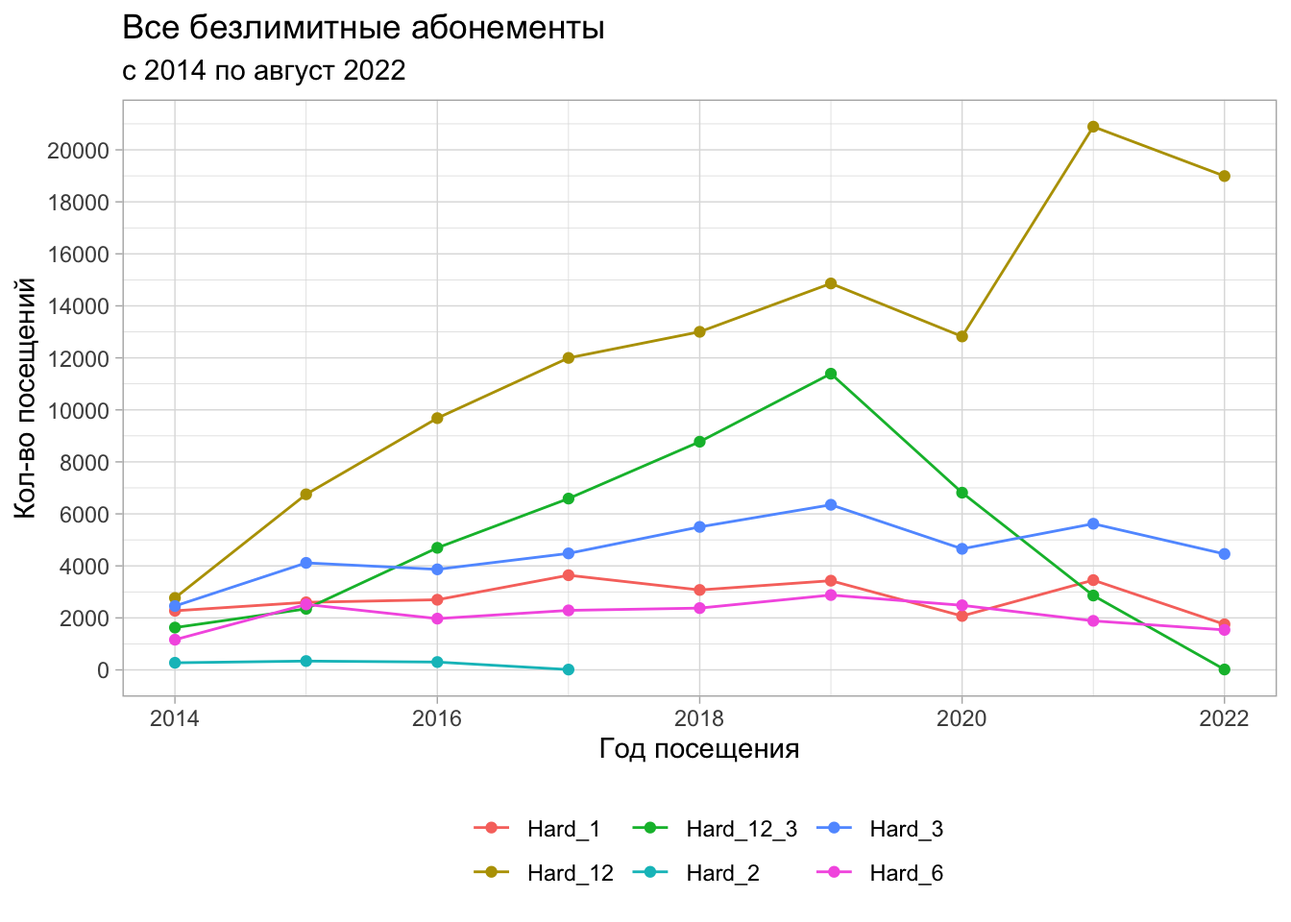
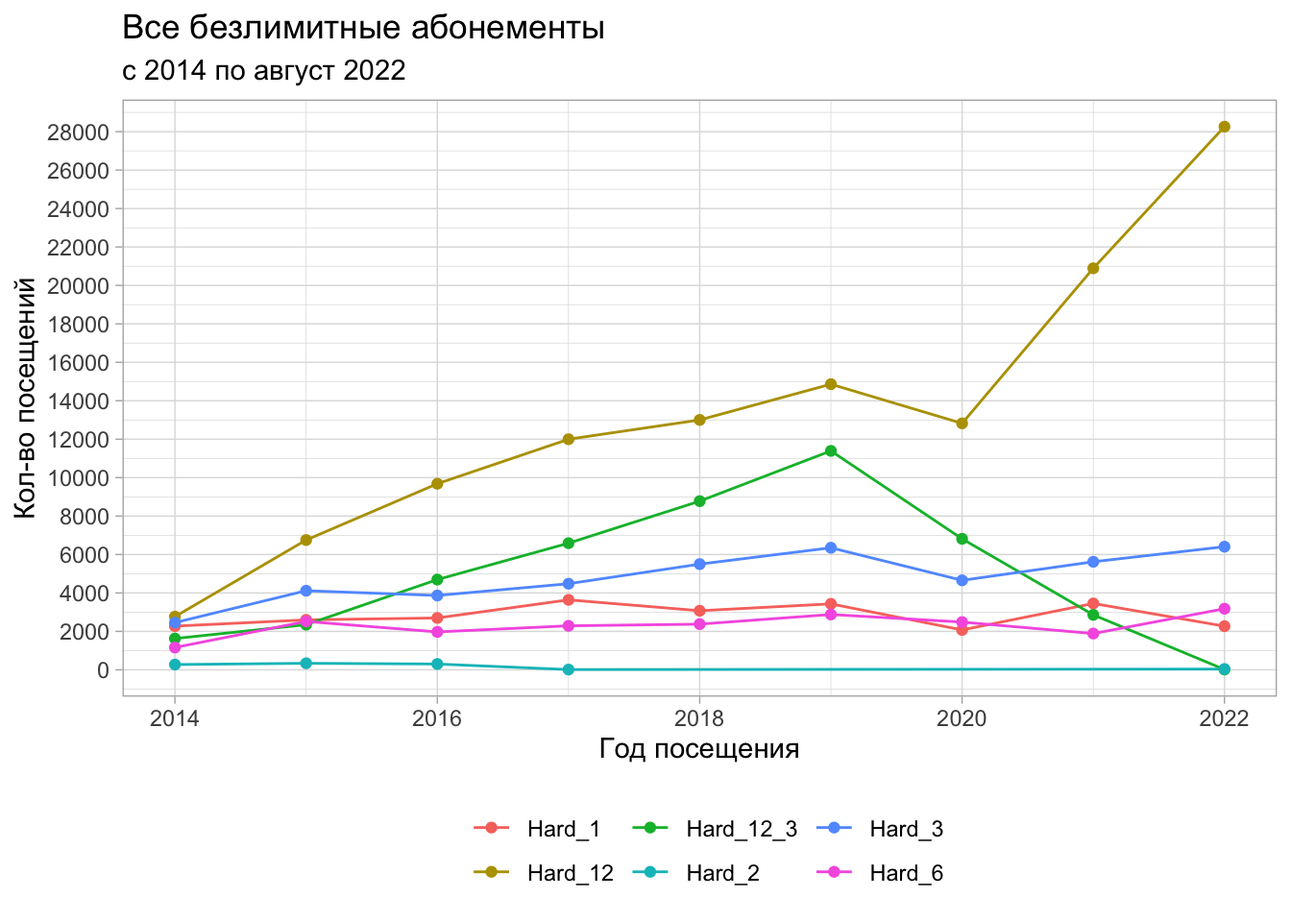
12/01/2023

diff --git a/docs/intro.html b/docs/intro.html
@@ -150,7 +150,7 @@ ul.task-list li input[type="checkbox"] {
 
 <div data-pagedtable="false">
   <script data-pagedtable-source="" type="application/json">
-{"columns":[{"label":["id"],"name":[1],"type":["chr"],"align":["left"]},{"label":["сard_type"],"name":[2],"type":["chr"],"align":["left"]},{"label":["surname"],"name":[3],"type":["chr"],"align":["left"]},{"label":["first_name"],"name":[4],"type":["chr"],"align":["left"]},{"label":["last_name"],"name":[5],"type":["chr"],"align":["left"]},{"label":["start_of_visit"],"name":[6],"type":["dttm"],"align":["right"]},{"label":["end_of_visit"],"name":[7],"type":["dttm"],"align":["right"]},{"label":["id_key"],"name":[8],"type":["chr"],"align":["left"]},{"label":["duration_visit"],"name":[9],"type":["dbl"],"align":["right"]},{"label":["date_start"],"name":[10],"type":["date"],"align":["right"]},{"label":["round_date_start"],"name":[11],"type":["date"],"align":["right"]},{"label":["year_start"],"name":[12],"type":["dbl"],"align":["right"]},{"label":["month_start"],"name":[13],"type":["dbl"],"align":["right"]},{"label":["day_number_start"],"name":[14],"type":["dbl"],"align":["right"]},{"label":["wday_start"],"name":[15],"type":["dbl"],"align":["right"]},{"label":["date_end"],"name":[16],"type":["date"],"align":["right"]},{"label":["round_date_end"],"name":[17],"type":["date"],"align":["right"]},{"label":["year_end"],"name":[18],"type":["dbl"],"align":["right"]},{"label":["month_endt"],"name":[19],"type":["dbl"],"align":["right"]},{"label":["day_number_end"],"name":[20],"type":["dbl"],"align":["right"]},{"label":["wday_end"],"name":[21],"type":["dbl"],"align":["right"]},{"label":["сard_type_2"],"name":[22],"type":["chr"],"align":["left"]},{"label":["segment"],"name":[23],"type":["chr"],"align":["left"]}],"data":[{"1":"NA","2":"Not","3":"Сауна №1","4":"Голубая","5":"NA","6":"2015-11-28 16:28:48","7":"2015-11-28 18:50:49","8":"NA","9":"142","10":"2015-11-28","11":"2015-11-01","12":"2015","13":"11","14":"28","15":"6","16":"2015-11-28","17":"2015-11-01","18":"2015","19":"11","20":"28","21":"6","22":"Not","23":"Not"},{"1":"NA","2":"Not","3":"Сауна №1","4":"Голубая","5":"NA","6":"2014-11-24 17:38:14","7":"2014-11-24 20:17:13","8":"NA","9":"159","10":"2014-11-24","11":"2014-11-01","12":"2014","13":"11","14":"24","15":"1","16":"2014-11-24","17":"2014-11-01","18":"2014","19":"11","20":"24","21":"1","22":"Not","23":"Not"},{"1":"NA","2":"Not","3":"Сауна №1","4":"Голубая","5":"NA","6":"2014-01-09 09:57:26","7":"2014-01-09 13:35:36","8":"NA","9":"218","10":"2014-01-09","11":"2014-01-01","12":"2014","13":"1","14":"9","15":"4","16":"2014-01-09","17":"2014-01-01","18":"2014","19":"1","20":"9","21":"4","22":"Not","23":"Not"},{"1":"NA","2":"Not","3":"Сауна №1","4":"Голубая","5":"NA","6":"2015-12-31 01:03:13","7":"2015-12-31 03:26:06","8":"NA","9":"143","10":"2015-12-31","11":"2015-12-01","12":"2015","13":"12","14":"31","15":"4","16":"2015-12-31","17":"2015-12-01","18":"2015","19":"12","20":"31","21":"4","22":"Not","23":"Not"},{"1":"NA","2":"Not","3":"Сауна №1","4":"Голубая","5":"NA","6":"2014-01-01 00:40:01","7":"2014-01-01 00:40:57","8":"NA","9":"1","10":"2014-01-01","11":"2014-01-01","12":"2014","13":"1","14":"1","15":"3","16":"2014-01-01","17":"2014-01-01","18":"2014","19":"1","20":"1","21":"3","22":"Not","23":"Not"},{"1":"NA","2":"Not","3":"Сауна №1","4":"Голубая","5":"NA","6":"2014-01-01 05:53:23","7":"2014-01-01 07:15:09","8":"NA","9":"82","10":"2014-01-01","11":"2014-01-01","12":"2014","13":"1","14":"1","15":"3","16":"2014-01-01","17":"2014-01-01","18":"2014","19":"1","20":"1","21":"3","22":"Not","23":"Not"},{"1":"NA","2":"Not","3":"Сауна №1","4":"Голубая","5":"NA","6":"2014-01-10 12:58:27","7":"2014-01-10 15:55:58","8":"NA","9":"178","10":"2014-01-10","11":"2014-01-01","12":"2014","13":"1","14":"10","15":"5","16":"2014-01-10","17":"2014-01-01","18":"2014","19":"1","20":"10","21":"5","22":"Not","23":"Not"},{"1":"NA","2":"Not","3":"Сауна №1","4":"Голубая","5":"NA","6":"2014-01-10 16:50:40","7":"2014-01-10 21:02:30","8":"NA","9":"252","10":"2014-01-10","11":"2014-01-01","12":"2014","13":"1","14":"10","15":"5","16":"2014-01-10","17":"2014-01-01","18":"2014","19":"1","20":"10","21":"5","22":"Not","23":"Not"},{"1":"NA","2":"Not","3":"Сауна №1","4":"Голубая","5":"NA","6":"2014-01-01 18:37:16","7":"2014-01-01 22:32:43","8":"NA","9":"235","10":"2014-01-01","11":"2014-01-01","12":"2014","13":"1","14":"1","15":"3","16":"2014-01-01","17":"2014-01-01","18":"2014","19":"1","20":"1","21":"3","22":"Not","23":"Not"},{"1":"NA","2":"Not","3":"Сауна №1","4":"Голубая","5":"NA","6":"2014-01-01 23:36:15","7":"2014-01-02 06:10:35","8":"NA","9":"394","10":"2014-01-01","11":"2014-01-01","12":"2014","13":"1","14":"1","15":"3","16":"2014-01-02","17":"2014-01-01","18":"2014","19":"1","20":"2","21":"4","22":"Not","23":"Not"},{"1":"NA","2":"Not","3":"Сауна №1","4":"Голубая","5":"NA","6":"2014-01-10 21:02:38","7":"2014-01-10 22:54:29","8":"NA","9":"112","10":"2014-01-10","11":"2014-01-01","12":"2014","13":"1","14":"10","15":"5","16":"2014-01-10","17":"2014-01-01","18":"2014","19":"1","20":"10","21":"5","22":"Not","23":"Not"},{"1":"NA","2":"Not","3":"Сауна №1","4":"Голубая","5":"NA","6":"2014-01-10 22:54:43","7":"2014-01-11 00:13:47","8":"NA","9":"79","10":"2014-01-10","11":"2014-01-01","12":"2014","13":"1","14":"10","15":"5","16":"2014-01-11","17":"2014-01-01","18":"2014","19":"1","20":"11","21":"6","22":"Not","23":"Not"},{"1":"NA","2":"Not","3":"Сауна №1","4":"Голубая","5":"NA","6":"2014-01-11 11:08:08","7":"2014-01-11 13:07:37","8":"NA","9":"119","10":"2014-01-11","11":"2014-01-01","12":"2014","13":"1","14":"11","15":"6","16":"2014-01-11","17":"2014-01-01","18":"2014","19":"1","20":"11","21":"6","22":"Not","23":"Not"},{"1":"NA","2":"Not","3":"Сауна №1","4":"Голубая","5":"NA","6":"2014-01-02 14:36:13","7":"2014-01-02 16:02:03","8":"NA","9":"86","10":"2014-01-02","11":"2014-01-01","12":"2014","13":"1","14":"2","15":"4","16":"2014-01-02","17":"2014-01-01","18":"2014","19":"1","20":"2","21":"4","22":"Not","23":"Not"},{"1":"NA","2":"Not","3":"Сауна №1","4":"Голубая","5":"NA","6":"2014-01-27 13:02:37","7":"2014-01-27 14:58:01","8":"NA","9":"115","10":"2014-01-27","11":"2014-01-01","12":"2014","13":"1","14":"27","15":"1","16":"2014-01-27","17":"2014-01-01","18":"2014","19":"1","20":"27","21":"1","22":"Not","23":"Not"},{"1":"NA","2":"Not","3":"Сауна №1","4":"Голубая","5":"NA","6":"2014-01-11 13:07:46","7":"2014-01-11 13:08:11","8":"NA","9":"0","10":"2014-01-11","11":"2014-01-01","12":"2014","13":"1","14":"11","15":"6","16":"2014-01-11","17":"2014-01-01","18":"2014","19":"1","20":"11","21":"6","22":"Not","23":"Not"},{"1":"NA","2":"Not","3":"Сауна №1","4":"Голубая","5":"NA","6":"2014-01-02 16:59:02","7":"2014-01-02 20:05:00","8":"NA","9":"186","10":"2014-01-02","11":"2014-01-01","12":"2014","13":"1","14":"2","15":"4","16":"2014-01-02","17":"2014-01-01","18":"2014","19":"1","20":"2","21":"4","22":"Not","23":"Not"},{"1":"NA","2":"Not","3":"Сауна №1","4":"Голубая","5":"NA","6":"2014-01-02 20:25:35","7":"2014-01-03 00:28:59","8":"NA","9":"243","10":"2014-01-02","11":"2014-01-01","12":"2014","13":"1","14":"2","15":"4","16":"2014-01-03","17":"2014-01-01","18":"2014","19":"1","20":"3","21":"5","22":"Not","23":"Not"},{"1":"NA","2":"Not","3":"Сауна №1","4":"Голубая","5":"NA","6":"2014-01-11 21:31:38","7":"2014-01-12 01:12:04","8":"NA","9":"220","10":"2014-01-11","11":"2014-01-01","12":"2014","13":"1","14":"11","15":"6","16":"2014-01-12","17":"2014-01-01","18":"2014","19":"1","20":"12","21":"7","22":"Not","23":"Not"},{"1":"NA","2":"Not","3":"Сауна №1","4":"Голубая","5":"NA","6":"2014-01-12 12:03:48","7":"2014-01-12 15:19:27","8":"NA","9":"196","10":"2014-01-12","11":"2014-01-01","12":"2014","13":"1","14":"12","15":"7","16":"2014-01-12","17":"2014-01-01","18":"2014","19":"1","20":"12","21":"7","22":"Not","23":"Not"}],"options":{"columns":{"min":{},"max":[10]},"rows":{"min":[10],"max":[10]},"pages":{}}}
+{"columns":[{"label":["id"],"name":[1],"type":["chr"],"align":["left"]},{"label":["сard_type"],"name":[2],"type":["chr"],"align":["left"]},{"label":["surname"],"name":[3],"type":["chr"],"align":["left"]},{"label":["first_name"],"name":[4],"type":["chr"],"align":["left"]},{"label":["last_name"],"name":[5],"type":["chr"],"align":["left"]},{"label":["start_of_visit"],"name":[6],"type":["dttm"],"align":["right"]},{"label":["end_of_visit"],"name":[7],"type":["dttm"],"align":["right"]},{"label":["id_key"],"name":[8],"type":["chr"],"align":["left"]},{"label":["duration_visit"],"name":[9],"type":["dbl"],"align":["right"]},{"label":["date_start"],"name":[10],"type":["date"],"align":["right"]},{"label":["round_date_start"],"name":[11],"type":["date"],"align":["right"]},{"label":["year_start"],"name":[12],"type":["dbl"],"align":["right"]},{"label":["month_start"],"name":[13],"type":["dbl"],"align":["right"]},{"label":["day_number_start"],"name":[14],"type":["dbl"],"align":["right"]},{"label":["wday_start"],"name":[15],"type":["dbl"],"align":["right"]},{"label":["date_end"],"name":[16],"type":["date"],"align":["right"]},{"label":["round_date_end"],"name":[17],"type":["date"],"align":["right"]},{"label":["year_end"],"name":[18],"type":["dbl"],"align":["right"]},{"label":["month_endt"],"name":[19],"type":["dbl"],"align":["right"]},{"label":["day_number_end"],"name":[20],"type":["dbl"],"align":["right"]},{"label":["wday_end"],"name":[21],"type":["dbl"],"align":["right"]},{"label":["сard_type_2"],"name":[22],"type":["chr"],"align":["left"]},{"label":["segment"],"name":[23],"type":["chr"],"align":["left"]}],"data":[{"1":"NA","2":"Not","3":"Сауна №1","4":"Голубая","5":"NA","6":"2014-01-01 00:40:01","7":"2014-01-01 00:40:57","8":"NA","9":"1","10":"2014-01-01","11":"2014-01-01","12":"2014","13":"1","14":"1","15":"3","16":"2014-01-01","17":"2014-01-01","18":"2014","19":"1","20":"1","21":"3","22":"Not","23":"Not"},{"1":"00008","2":"Not","3":"Мочалов","4":"Евгений","5":"NA","6":"2014-01-01 02:08:32","7":"2014-01-01 05:52:51","8":"NA","9":"224","10":"2014-01-01","11":"2014-01-01","12":"2014","13":"1","14":"1","15":"3","16":"2014-01-01","17":"2014-01-01","18":"2014","19":"1","20":"1","21":"3","22":"Not","23":"Not"},{"1":"NA","2":"Not","3":"Сауна №1","4":"Голубая","5":"NA","6":"2014-01-01 05:53:23","7":"2014-01-01 07:15:09","8":"NA","9":"82","10":"2014-01-01","11":"2014-01-01","12":"2014","13":"1","14":"1","15":"3","16":"2014-01-01","17":"2014-01-01","18":"2014","19":"1","20":"1","21":"3","22":"Not","23":"Not"},{"1":"РП12","2":"Not","3":"Разовое","4":"Посещение 12","5":"NA","6":"2014-01-01 07:16:57","7":"2014-01-01 07:18:08","8":"NA","9":"1","10":"2014-01-01","11":"2014-01-01","12":"2014","13":"1","14":"1","15":"3","16":"2014-01-01","17":"2014-01-01","18":"2014","19":"1","20":"1","21":"3","22":"Not","23":"Not"},{"1":"РП35","2":"Not","3":"Разовое","4":"Посещение 35","5":"NA","6":"2014-01-01 07:17:29","7":"2014-01-01 07:18:07","8":"NA","9":"1","10":"2014-01-01","11":"2014-01-01","12":"2014","13":"1","14":"1","15":"3","16":"2014-01-01","17":"2014-01-01","18":"2014","19":"1","20":"1","21":"3","22":"Not","23":"Not"},{"1":"00465","2":"А 8 пенсионный","3":"Плескач","4":"Николай","5":"Николаевич","6":"2014-01-01 10:04:33","7":"2014-01-01 11:21:54","8":"NA","9":"77","10":"2014-01-01","11":"2014-01-01","12":"2014","13":"1","14":"1","15":"3","16":"2014-01-01","17":"2014-01-01","18":"2014","19":"1","20":"1","21":"3","22":"А8_pool","23":"Discounted"},{"1":"00448","2":"А10 Льготный акция","3":"Кукина","4":"Вера","5":"Ивановна","6":"2014-01-01 10:23:23","7":"2014-01-01 11:15:14","8":"NA","9":"52","10":"2014-01-01","11":"2014-01-01","12":"2014","13":"1","14":"1","15":"3","16":"2014-01-01","17":"2014-01-01","18":"2014","19":"1","20":"1","21":"3","22":"А10_pool","23":"Discounted"},{"1":"00477","2":"А 8 пенсионный","3":"Лежнин","4":"Андрей","5":"Алексеевич","6":"2014-01-01 10:46:00","7":"2014-01-01 11:58:10","8":"NA","9":"72","10":"2014-01-01","11":"2014-01-01","12":"2014","13":"1","14":"1","15":"3","16":"2014-01-01","17":"2014-01-01","18":"2014","19":"1","20":"1","21":"3","22":"А8_pool","23":"Discounted"},{"1":"00019","2":"Разовое бассенй + БК полный","3":"Разовое","4":"Посещение 10","5":"NA","6":"2014-01-01 10:52:28","7":"2014-01-01 12:05:04","8":"NA","9":"73","10":"2014-01-01","11":"2014-01-01","12":"2014","13":"1","14":"1","15":"3","16":"2014-01-01","17":"2014-01-01","18":"2014","19":"1","20":"1","21":"3","22":"One_pool_bk","23":"Adult"},{"1":"NA","2":"Льготный А10","3":"-","4":"-","5":"-","6":"2014-01-01 10:55:35","7":"2014-01-01 12:01:00","8":"NA","9":"65","10":"2014-01-01","11":"2014-01-01","12":"2014","13":"1","14":"1","15":"3","16":"2014-01-01","17":"2014-01-01","18":"2014","19":"1","20":"1","21":"3","22":"А10_pool","23":"Discounted"},{"1":"ГП1","2":"Разовое посещение БК льготныйпенсионеры","3":"Гостиница","4":"Проживающие 1","5":"NA","6":"2014-01-01 11:32:42","7":"2014-01-01 12:29:16","8":"NA","9":"57","10":"2014-01-01","11":"2014-01-01","12":"2014","13":"1","14":"1","15":"3","16":"2014-01-01","17":"2014-01-01","18":"2014","19":"1","20":"1","21":"3","22":"One_bk","23":"Discounted"},{"1":"06155","2":"Утро-День А5 (11 марта 2014)","3":"Семенова","4":"Юлия","5":"Александровна","6":"2014-01-01 11:33:13","7":"2014-01-01 13:15:43","8":"NA","9":"102","10":"2014-01-01","11":"2014-01-01","12":"2014","13":"1","14":"1","15":"3","16":"2014-01-01","17":"2014-01-01","18":"2014","19":"1","20":"1","21":"3","22":"А5_pool","23":"Adult"},{"1":"00113","2":"А10 Льготный акция","3":"Шаров","4":"Александр","5":"Александрович","6":"2014-01-01 11:50:08","7":"2014-01-01 13:12:30","8":"NA","9":"82","10":"2014-01-01","11":"2014-01-01","12":"2014","13":"1","14":"1","15":"3","16":"2014-01-01","17":"2014-01-01","18":"2014","19":"1","20":"1","21":"3","22":"А10_pool","23":"Discounted"},{"1":"00114","2":"Льготный А10 (11 марта 2014)","3":"Шаров","4":"Александр","5":"Евгеньевич","6":"2014-01-01 11:51:05","7":"2014-01-01 13:11:36","8":"NA","9":"81","10":"2014-01-01","11":"2014-01-01","12":"2014","13":"1","14":"1","15":"3","16":"2014-01-01","17":"2014-01-01","18":"2014","19":"1","20":"1","21":"3","22":"А10_pool","23":"Discounted"},{"1":"ГП6","2":"Бассейн гостиница","3":"Гостиница","4":"Проживающие 6","5":"NA","6":"2014-01-01 11:52:15","7":"2014-01-01 11:56:44","8":"NA","9":"4","10":"2014-01-01","11":"2014-01-01","12":"2014","13":"1","14":"1","15":"3","16":"2014-01-01","17":"2014-01-01","18":"2014","19":"1","20":"1","21":"3","22":"One_pool","23":"Hotel"},{"1":"00118","2":"Детский А5","3":"Шаров","4":"Илья","5":"NA","6":"2014-01-01 11:56:32","7":"2014-01-01 13:12:40","8":"NA","9":"76","10":"2014-01-01","11":"2014-01-01","12":"2014","13":"1","14":"1","15":"3","16":"2014-01-01","17":"2014-01-01","18":"2014","19":"1","20":"1","21":"3","22":"А5_pool","23":"Discounted"},{"1":"00119","2":"1 мес Хард серебро","3":"Смирнова","4":"Алла","5":"Геннадьевна","6":"2014-01-01 12:02:42","7":"2014-01-01 13:13:35","8":"NA","9":"71","10":"2014-01-01","11":"2014-01-01","12":"2014","13":"1","14":"1","15":"3","16":"2014-01-01","17":"2014-01-01","18":"2014","19":"1","20":"1","21":"3","22":"Hard_1","23":"Adult"},{"1":"00061","2":"Утро-День А5","3":"Василец","4":"Татьяна","5":"Ивановна","6":"2014-01-01 12:11:40","7":"2014-01-01 13:34:56","8":"NA","9":"83","10":"2014-01-01","11":"2014-01-01","12":"2014","13":"1","14":"1","15":"3","16":"2014-01-01","17":"2014-01-01","18":"2014","19":"1","20":"1","21":"3","22":"А5_pool","23":"Adult"},{"1":"00060","2":"Детский А5","3":"Василец","4":"Михаил","5":"Владиславович","6":"2014-01-01 12:11:55","7":"2014-01-01 13:35:10","8":"NA","9":"83","10":"2014-01-01","11":"2014-01-01","12":"2014","13":"1","14":"1","15":"3","16":"2014-01-01","17":"2014-01-01","18":"2014","19":"1","20":"1","21":"3","22":"А5_pool","23":"Discounted"},{"1":"00059","2":"Льготный А10","3":"Пчелинцева","4":"В","5":"NA","6":"2014-01-01 12:25:56","7":"2014-01-01 13:48:52","8":"NA","9":"83","10":"2014-01-01","11":"2014-01-01","12":"2014","13":"1","14":"1","15":"3","16":"2014-01-01","17":"2014-01-01","18":"2014","19":"1","20":"1","21":"3","22":"А10_pool","23":"Discounted"}],"options":{"columns":{"min":{},"max":[10]},"rows":{"min":[10],"max":[10]},"pages":{}}}
   </script>
 </div>
 </div>
@@ -165,7 +165,7 @@ ul.task-list li input[type="checkbox"] {
 </div>
 </div>
 <div class="callout-body-container callout-body">
-<p>Данные за 2022 год предствалены до 2022-08-31 22:13:14</p>
+<p>Данные за 2022 год предствалены до 2022-12-31 20:11:39</p>
 </div>
 </div>
 <div class="callout-warning callout callout-style-simple callout-captioned">
@@ -230,7 +230,7 @@ ul.task-list li input[type="checkbox"] {
 
 <div data-pagedtable="false">
   <script data-pagedtable-source="" type="application/json">
-{"columns":[{"label":["Тип абонемента"],"name":[1],"type":["chr"],"align":["left"]},{"label":["Доля %"],"name":[2],"type":["dbl"],"align":["right"]}],"data":[{"1":"Hard_12","2":"22.2"},{"1":"А8_pool","2":"9.9"},{"1":"А4_pool","2":"9.5"},{"1":"Hard_12_3","2":"8.9"},{"1":"Hard_3","2":"8.2"},{"1":"One_pool","2":"6.3"},{"1":"Not","2":"5.6"},{"1":"Hard_1","2":"5.0"},{"1":"А5_pool","2":"4.5"},{"1":"А10_pool","2":"4.3"},{"1":"Hard_6","2":"3.8"},{"1":"Free","2":"2.8"},{"1":"One_pool_bk","2":"2.3"},{"1":"One_bk","2":"1.9"},{"1":"А4_group","2":"1.6"},{"1":"А8_group","2":"1.4"},{"1":"Staff","2":"0.8"},{"1":"Speleo","2":"0.2"},{"1":"А4_personal","2":"0.2"},{"1":"Hard_2","2":"0.2"},{"1":"А12_group","2":"0.2"},{"1":"Solarium_100","2":"0.1"},{"1":"А1_group","2":"0.1"},{"1":"Massage_10","2":"0.0"},{"1":"А4_BK","2":"0.0"},{"1":"Massage_5","2":"0.0"},{"1":"Solarium_200","2":"0.0"},{"1":"А8_BK","2":"0.0"},{"1":"А60_pool","2":"0.0"},{"1":"А30_pool","2":"0.0"},{"1":"Massage","2":"0.0"}],"options":{"columns":{"min":{},"max":[10]},"rows":{"min":[10],"max":[10]},"pages":{}}}
+{"columns":[{"label":["Тип абонемента"],"name":[1],"type":["chr"],"align":["left"]},{"label":["Доля %"],"name":[2],"type":["dbl"],"align":["right"]}],"data":[{"1":"Hard_12","2":"23.0"},{"1":"А8_pool","2":"9.8"},{"1":"А4_pool","2":"9.5"},{"1":"Hard_12_3","2":"8.6"},{"1":"Hard_3","2":"8.3"},{"1":"One_pool","2":"6.4"},{"1":"Not","2":"5.3"},{"1":"Hard_1","2":"4.9"},{"1":"А5_pool","2":"4.3"},{"1":"А10_pool","2":"4.1"},{"1":"Hard_6","2":"3.9"},{"1":"Free","2":"2.8"},{"1":"One_pool_bk","2":"2.3"},{"1":"One_bk","2":"1.9"},{"1":"А4_group","2":"1.6"},{"1":"А8_group","2":"1.4"},{"1":"Staff","2":"0.8"},{"1":"Speleo","2":"0.2"},{"1":"А4_personal","2":"0.2"},{"1":"Hard_2","2":"0.2"},{"1":"А12_group","2":"0.2"},{"1":"Solarium_100","2":"0.1"},{"1":"А1_group","2":"0.1"},{"1":"А4_BK","2":"0.1"},{"1":"Massage_10","2":"0.0"},{"1":"Massage_5","2":"0.0"},{"1":"Solarium_200","2":"0.0"},{"1":"А8_BK","2":"0.0"},{"1":"А60_pool","2":"0.0"},{"1":"А30_pool","2":"0.0"},{"1":"Massage","2":"0.0"}],"options":{"columns":{"min":{},"max":[10]},"rows":{"min":[10],"max":[10]},"pages":{}}}
   </script>
 </div>
 </div>
@@ -242,7 +242,7 @@ ul.task-list li input[type="checkbox"] {
 
 <div data-pagedtable="false">
   <script data-pagedtable-source="" type="application/json">
-{"columns":[{"label":["сard_type_2"],"name":[1],"type":["chr"],"align":["left"]},{"label":["2014"],"name":[2],"type":["dbl"],"align":["right"]},{"label":["2015"],"name":[3],"type":["dbl"],"align":["right"]},{"label":["2016"],"name":[4],"type":["dbl"],"align":["right"]},{"label":["2017"],"name":[5],"type":["dbl"],"align":["right"]},{"label":["2018"],"name":[6],"type":["dbl"],"align":["right"]},{"label":["2019"],"name":[7],"type":["dbl"],"align":["right"]},{"label":["2020"],"name":[8],"type":["dbl"],"align":["right"]},{"label":["2021"],"name":[9],"type":["dbl"],"align":["right"]},{"label":["2022"],"name":[10],"type":["dbl"],"align":["right"]}],"data":[{"1":"Free","2":"0.5","3":"2.5","4":"2.8","5":"3.3","6":"4.1","7":"4.2","8":"1.3","9":"2.5","10":"2.7"},{"1":"Hard_1","2":"4.8","3":"4.2","4":"4.5","5":"6.3","6":"4.9","7":"5.0","8":"4.7","9":"6.0","10":"3.9"},{"1":"Hard_12","2":"5.8","3":"11.0","4":"16.1","5":"20.6","6":"20.8","7":"21.8","8":"28.8","9":"36.4","10":"42.6"},{"1":"Hard_12_3","2":"3.4","3":"3.8","4":"7.8","5":"11.3","6":"14.0","7":"16.7","8":"15.3","9":"5.0","10":"0.0"},{"1":"Hard_2","2":"0.6","3":"0.6","4":"0.5","5":"0.0","6":"NA","7":"NA","8":"NA","9":"NA","10":"NA"},{"1":"Hard_3","2":"5.2","3":"6.7","4":"6.4","5":"7.7","6":"8.8","7":"9.3","8":"10.5","9":"9.8","10":"10.0"},{"1":"Hard_6","2":"2.4","3":"4.1","4":"3.3","5":"3.9","6":"3.8","7":"4.2","8":"5.6","9":"3.3","10":"3.4"},{"1":"Not","2":"16.7","3":"17.8","4":"14.9","5":"0.2","6":"0.1","7":"NA","8":"NA","9":"NA","10":"NA"},{"1":"One_bk","2":"1.6","3":"1.1","4":"1.4","5":"2.5","6":"2.1","7":"1.5","8":"2.0","9":"2.5","10":"2.2"},{"1":"One_pool","2":"2.0","3":"2.0","4":"3.5","5":"5.8","6":"5.2","7":"7.9","8":"7.6","9":"11.2","10":"12.3"},{"1":"One_pool_bk","2":"1.6","3":"2.8","4":"2.3","5":"3.0","6":"2.2","7":"1.4","8":"1.9","9":"2.5","10":"2.6"},{"1":"Solarium_100","2":"0.1","3":"0.4","4":"0.2","5":"0.2","6":"0.1","7":"0.1","8":"0.0","9":"0.0","10":"0.0"},{"1":"Speleo","2":"0.2","3":"0.5","4":"0.3","5":"0.4","6":"0.2","7":"0.1","8":"0.1","9":"0.1","10":"0.1"},{"1":"Staff","2":"0.4","3":"0.5","4":"1.2","5":"1.6","6":"1.1","7":"0.7","8":"0.2","9":"0.5","10":"0.6"},{"1":"А10_pool","2":"20.9","3":"11.7","4":"7.7","5":"0.1","6":"0.0","7":"NA","8":"NA","9":"NA","10":"NA"},{"1":"А12_group","2":"0.2","3":"0.6","4":"0.3","5":"NA","6":"NA","7":"NA","8":"0.0","9":"0.0","10":"0.3"},{"1":"А4_group","2":"0.1","3":"0.2","4":"1.0","5":"1.9","6":"2.2","7":"2.8","8":"2.6","9":"2.1","10":"1.7"},{"1":"А4_personal","2":"0.0","3":"NA","4":"0.1","5":"0.3","6":"0.3","7":"0.4","8":"0.2","9":"0.4","10":"0.4"},{"1":"А4_pool","2":"6.0","3":"5.4","4":"8.2","5":"13.3","6":"11.6","7":"12.4","8":"9.4","9":"9.3","10":"8.3"},{"1":"А5_pool","2":"20.2","3":"15.2","4":"6.2","5":"0.0","6":"NA","7":"NA","8":"0.0","9":"NA","10":"NA"},{"1":"А8_group","2":"0.2","3":"0.7","4":"1.1","5":"2.1","6":"2.0","7":"1.6","8":"1.5","9":"1.5","10":"2.0"},{"1":"А8_pool","2":"7.2","3":"7.9","4":"10.1","5":"15.3","6":"16.3","7":"9.8","8":"7.8","9":"6.3","10":"6.1"},{"1":"Solarium_200","2":"NA","3":"0.0","4":"0.0","5":"NA","6":"0.0","7":"0.1","8":"0.0","9":"0.0","10":"0.0"},{"1":"А30_pool","2":"NA","3":"0.0","4":"0.0","5":"NA","6":"NA","7":"NA","8":"NA","9":"NA","10":"NA"},{"1":"А60_pool","2":"NA","3":"0.0","4":"0.0","5":"NA","6":"NA","7":"NA","8":"NA","9":"NA","10":"NA"},{"1":"А1_group","2":"NA","3":"NA","4":"0.0","5":"0.1","6":"0.1","7":"0.2","8":"0.2","9":"0.2","10":"0.1"},{"1":"Massage","2":"NA","3":"NA","4":"NA","5":"NA","6":"0.0","7":"0.0","8":"0.0","9":"0.0","10":"NA"},{"1":"Massage_10","2":"NA","3":"NA","4":"NA","5":"NA","6":"NA","7":"0.0","8":"0.1","9":"0.1","10":"0.1"},{"1":"Massage_5","2":"NA","3":"NA","4":"NA","5":"NA","6":"NA","7":"0.0","8":"0.0","9":"0.1","10":"0.1"},{"1":"А4_BK","2":"NA","3":"NA","4":"NA","5":"NA","6":"NA","7":"NA","8":"0.0","9":"0.1","10":"0.3"},{"1":"А8_BK","2":"NA","3":"NA","4":"NA","5":"NA","6":"NA","7":"NA","8":"0.0","9":"0.0","10":"0.1"}],"options":{"columns":{"min":{},"max":[10]},"rows":{"min":[10],"max":[10]},"pages":{}}}
+{"columns":[{"label":["сard_type_2"],"name":[1],"type":["chr"],"align":["left"]},{"label":["2014"],"name":[2],"type":["dbl"],"align":["right"]},{"label":["2015"],"name":[3],"type":["dbl"],"align":["right"]},{"label":["2016"],"name":[4],"type":["dbl"],"align":["right"]},{"label":["2017"],"name":[5],"type":["dbl"],"align":["right"]},{"label":["2018"],"name":[6],"type":["dbl"],"align":["right"]},{"label":["2019"],"name":[7],"type":["dbl"],"align":["right"]},{"label":["2020"],"name":[8],"type":["dbl"],"align":["right"]},{"label":["2021"],"name":[9],"type":["dbl"],"align":["right"]},{"label":["2022"],"name":[10],"type":["dbl"],"align":["right"]}],"data":[{"1":"Free","2":"0.5","3":"2.5","4":"2.8","5":"3.3","6":"4.1","7":"4.2","8":"1.3","9":"2.5","10":"2.8"},{"1":"Hard_1","2":"4.8","3":"4.2","4":"4.5","5":"6.3","6":"4.9","7":"5.0","8":"4.7","9":"6.0","10":"3.4"},{"1":"Hard_12","2":"5.8","3":"11.0","4":"16.1","5":"20.6","6":"20.8","7":"21.8","8":"28.8","9":"36.4","10":"42.7"},{"1":"Hard_12_3","2":"3.4","3":"3.8","4":"7.8","5":"11.3","6":"14.0","7":"16.7","8":"15.3","9":"5.0","10":"0.0"},{"1":"Hard_2","2":"0.6","3":"0.6","4":"0.5","5":"0.0","6":"NA","7":"NA","8":"NA","9":"NA","10":"0.1"},{"1":"Hard_3","2":"5.2","3":"6.7","4":"6.4","5":"7.7","6":"8.8","7":"9.3","8":"10.5","9":"9.8","10":"9.7"},{"1":"Hard_6","2":"2.4","3":"4.1","4":"3.3","5":"3.9","6":"3.8","7":"4.2","8":"5.6","9":"3.3","10":"4.8"},{"1":"Not","2":"16.7","3":"17.8","4":"14.9","5":"0.2","6":"0.1","7":"NA","8":"NA","9":"NA","10":"NA"},{"1":"One_bk","2":"1.6","3":"1.1","4":"1.4","5":"2.5","6":"2.1","7":"1.5","8":"2.0","9":"2.5","10":"2.4"},{"1":"One_pool","2":"2.0","3":"2.0","4":"3.5","5":"5.8","6":"5.2","7":"7.9","8":"7.6","9":"11.2","10":"11.1"},{"1":"One_pool_bk","2":"1.6","3":"2.8","4":"2.3","5":"3.0","6":"2.2","7":"1.4","8":"1.9","9":"2.5","10":"2.4"},{"1":"Solarium_100","2":"0.1","3":"0.4","4":"0.2","5":"0.2","6":"0.1","7":"0.1","8":"0.0","9":"0.0","10":"0.0"},{"1":"Speleo","2":"0.2","3":"0.5","4":"0.3","5":"0.4","6":"0.2","7":"0.1","8":"0.1","9":"0.1","10":"0.1"},{"1":"Staff","2":"0.4","3":"0.5","4":"1.2","5":"1.6","6":"1.1","7":"0.7","8":"0.2","9":"0.5","10":"0.6"},{"1":"А10_pool","2":"20.9","3":"11.7","4":"7.7","5":"0.1","6":"0.0","7":"NA","8":"NA","9":"NA","10":"NA"},{"1":"А12_group","2":"0.2","3":"0.6","4":"0.3","5":"NA","6":"NA","7":"NA","8":"0.0","9":"0.0","10":"0.3"},{"1":"А4_group","2":"0.1","3":"0.2","4":"1.0","5":"1.9","6":"2.2","7":"2.8","8":"2.6","9":"2.1","10":"1.7"},{"1":"А4_personal","2":"0.0","3":"NA","4":"0.1","5":"0.3","6":"0.3","7":"0.4","8":"0.2","9":"0.4","10":"0.4"},{"1":"А4_pool","2":"6.0","3":"5.4","4":"8.2","5":"13.3","6":"11.6","7":"12.4","8":"9.4","9":"9.3","10":"8.8"},{"1":"А5_pool","2":"20.2","3":"15.2","4":"6.2","5":"0.0","6":"NA","7":"NA","8":"0.0","9":"NA","10":"NA"},{"1":"А8_group","2":"0.2","3":"0.7","4":"1.1","5":"2.1","6":"2.0","7":"1.6","8":"1.5","9":"1.5","10":"1.8"},{"1":"А8_pool","2":"7.2","3":"7.9","4":"10.1","5":"15.3","6":"16.3","7":"9.8","8":"7.8","9":"6.3","10":"6.2"},{"1":"Solarium_200","2":"NA","3":"0.0","4":"0.0","5":"NA","6":"0.0","7":"0.1","8":"0.0","9":"0.0","10":"0.0"},{"1":"А30_pool","2":"NA","3":"0.0","4":"0.0","5":"NA","6":"NA","7":"NA","8":"NA","9":"NA","10":"NA"},{"1":"А60_pool","2":"NA","3":"0.0","4":"0.0","5":"NA","6":"NA","7":"NA","8":"NA","9":"NA","10":"NA"},{"1":"А1_group","2":"NA","3":"NA","4":"0.0","5":"0.1","6":"0.1","7":"0.2","8":"0.2","9":"0.2","10":"0.1"},{"1":"Massage","2":"NA","3":"NA","4":"NA","5":"NA","6":"0.0","7":"0.0","8":"0.0","9":"0.0","10":"NA"},{"1":"Massage_10","2":"NA","3":"NA","4":"NA","5":"NA","6":"NA","7":"0.0","8":"0.1","9":"0.1","10":"0.1"},{"1":"Massage_5","2":"NA","3":"NA","4":"NA","5":"NA","6":"NA","7":"0.0","8":"0.0","9":"0.1","10":"0.1"},{"1":"А4_BK","2":"NA","3":"NA","4":"NA","5":"NA","6":"NA","7":"NA","8":"0.0","9":"0.1","10":"0.4"},{"1":"А8_BK","2":"NA","3":"NA","4":"NA","5":"NA","6":"NA","7":"NA","8":"0.0","9":"0.0","10":"0.1"}],"options":{"columns":{"min":{},"max":[10]},"rows":{"min":[10],"max":[10]},"pages":{}}}
   </script>
 </div>
 </div>
@@ -380,7 +380,7 @@ ul.task-list li input[type="checkbox"] {
 
 <div data-pagedtable="false">
   <script data-pagedtable-source="" type="application/json">
-{"columns":[{"label":["Среднее время посещения"],"name":[1],"type":["dbl"],"align":["right"]},{"label":["Медианное время посещения"],"name":[2],"type":["dbl"],"align":["right"]},{"label":["Стандартное отклонение"],"name":[3],"type":["dbl"],"align":["right"]}],"data":[{"1":"80.05363","2":"78","3":"27.03734"}],"options":{"columns":{"min":{},"max":[10]},"rows":{"min":[10],"max":[10]},"pages":{}}}
+{"columns":[{"label":["Среднее время посещения"],"name":[1],"type":["dbl"],"align":["right"]},{"label":["Медианное время посещения"],"name":[2],"type":["dbl"],"align":["right"]},{"label":["Стандартное отклонение"],"name":[3],"type":["dbl"],"align":["right"]}],"data":[{"1":"80.02409","2":"78","3":"26.87715"}],"options":{"columns":{"min":{},"max":[10]},"rows":{"min":[10],"max":[10]},"pages":{}}}
   </script>
 </div>
 </div>
@@ -395,7 +395,7 @@ ul.task-list li input[type="checkbox"] {
 </div>
 </div>
 </div>
-<p>Мы видим, что среднее время равняется 80.1 минутам. Стандартное отклонение - 27 минут. Это связано с тем, что в данных есть ошибки. Также, мы можем наблюдать данные ошибки и на графике. Причины различны: от некорректной работы ПО до ошибки администратора.</p>
+<p>Мы видим, что среднее время равняется 80 минутам. Стандартное отклонение - 26.9 минут. Это связано с тем, что в данных есть ошибки. Также, мы можем наблюдать данные ошибки и на графике. Причины различны: от некорректной работы ПО до ошибки администратора.</p>
 <p>Давайте скорректируем наши данные, а именно отсечем по 5% данных с каждого конца,</p>
 <div class="callout-note callout callout-style-simple callout-captioned">
 <div class="callout-header d-flex align-content-center">
@@ -424,7 +424,7 @@ ul.task-list li input[type="checkbox"] {
 
 <div data-pagedtable="false">
   <script data-pagedtable-source="" type="application/json">
-{"columns":[{"label":["Среднее"],"name":[1],"type":["dbl"],"align":["right"]},{"label":["Медиана"],"name":[2],"type":["dbl"],"align":["right"]},{"label":["Стд.отклонение"],"name":[3],"type":["dbl"],"align":["right"]}],"data":[{"1":"79.60629","2":"78","3":"12.44892"}],"options":{"columns":{"min":{},"max":[10]},"rows":{"min":[10],"max":[10]},"pages":{}}}
+{"columns":[{"label":["Среднее"],"name":[1],"type":["dbl"],"align":["right"]},{"label":["Медиана"],"name":[2],"type":["dbl"],"align":["right"]},{"label":["Стд.отклонение"],"name":[3],"type":["dbl"],"align":["right"]}],"data":[{"1":"79.57414","2":"78","3":"12.4329"}],"options":{"columns":{"min":{},"max":[10]},"rows":{"min":[10],"max":[10]},"pages":{}}}
   </script>
 </div>
 </div>
@@ -449,7 +449,7 @@ ul.task-list li input[type="checkbox"] {
 
 <div data-pagedtable="false">
   <script data-pagedtable-source="" type="application/json">
-{"columns":[{"label":["Среднее время посещения"],"name":[1],"type":["dbl"],"align":["right"]},{"label":["Медианное время посещения"],"name":[2],"type":["dbl"],"align":["right"]},{"label":["Стандартное отклонение"],"name":[3],"type":["dbl"],"align":["right"]},{"label":["5% квантиль"],"name":[4],"type":["dbl"],"align":["right"]},{"label":["95% квантиль"],"name":[5],"type":["dbl"],"align":["right"]}],"data":[{"1":"86.25898","2":"77","3":"53.49615","4":"22","5":"188"}],"options":{"columns":{"min":{},"max":[10]},"rows":{"min":[10],"max":[10]},"pages":{}}}
+{"columns":[{"label":["Среднее время посещения"],"name":[1],"type":["dbl"],"align":["right"]},{"label":["Медианное время посещения"],"name":[2],"type":["dbl"],"align":["right"]},{"label":["Стандартное отклонение"],"name":[3],"type":["dbl"],"align":["right"]},{"label":["5% квантиль"],"name":[4],"type":["dbl"],"align":["right"]},{"label":["95% квантиль"],"name":[5],"type":["dbl"],"align":["right"]}],"data":[{"1":"86.40465","2":"77","3":"53.74572","4":"23","5":"189"}],"options":{"columns":{"min":{},"max":[10]},"rows":{"min":[10],"max":[10]},"pages":{}}}
   </script>
 </div>
 </div>
@@ -463,14 +463,14 @@ ul.task-list li input[type="checkbox"] {
 </div>
 </div>
 </div>
-<p>Мы видим, что гости, которые посещают спа-центр разово, более склонны нарушать правила клуба. Стандартное отклонение посещения - 53.5 минуты, а среднее 86.3 минут.</p>
+<p>Мы видим, что гости, которые посещают спа-центр разово, более склонны нарушать правила клуба. Стандартное отклонение посещения - 53.7 минуты, а среднее 86.4 минут.</p>
 <p>Мы проделаем туже корректировку с данными, как это было с абонементами гуппы <code>А</code>.</p>
 <div class="cell" data-layout-align="center">
 <div class="cell-output-display">
 
 <div data-pagedtable="false">
   <script data-pagedtable-source="" type="application/json">
-{"columns":[{"label":["Среднее"],"name":[1],"type":["dbl"],"align":["right"]},{"label":["Медиана"],"name":[2],"type":["dbl"],"align":["right"]},{"label":["Стандартное_отклонение"],"name":[3],"type":["dbl"],"align":["right"]}],"data":[{"1":"81.55243","2":"77","3":"31.71656"}],"options":{"columns":{"min":{},"max":[10]},"rows":{"min":[10],"max":[10]},"pages":{}}}
+{"columns":[{"label":["Среднее"],"name":[1],"type":["dbl"],"align":["right"]},{"label":["Медиана"],"name":[2],"type":["dbl"],"align":["right"]},{"label":["Стандартное_отклонение"],"name":[3],"type":["dbl"],"align":["right"]}],"data":[{"1":"81.68201","2":"77","3":"31.84182"}],"options":{"columns":{"min":{},"max":[10]},"rows":{"min":[10],"max":[10]},"pages":{}}}
   </script>
 </div>
 </div>
@@ -484,7 +484,7 @@ ul.task-list li input[type="checkbox"] {
 </div>
 </div>
 </div>
-<p>Мы видим, что среднее изменилось не существенно и теперь равняется 81.6. На графике теперь видно, что большая часть посетителей укладывается в рамки 80-90 минут посещения.</p>
+<p>Мы видим, что среднее изменилось не существенно и теперь равняется 81.7. На графике теперь видно, что большая часть посетителей укладывается в рамки 80-90 минут посещения.</p>
 </section>
 <section id="абонементы-группы-hard" class="level4 unnumbered">
 <h4 class="unnumbered anchored" data-anchor-id="абонементы-группы-hard">Абонементы группы <code>Hard</code></h4>
@@ -508,19 +508,19 @@ ul.task-list li input[type="checkbox"] {
 
 <div data-pagedtable="false">
   <script data-pagedtable-source="" type="application/json">
-{"columns":[{"label":["Q1"],"name":[1],"type":["dbl"],"align":["right"]},{"label":["Q4"],"name":[2],"type":["dbl"],"align":["right"]}],"data":[{"1":"58","2":"192"}],"options":{"columns":{"min":{},"max":[10]},"rows":{"min":[10],"max":[10]},"pages":{}}}
+{"columns":[{"label":["Q1"],"name":[1],"type":["dbl"],"align":["right"]},{"label":["Q4"],"name":[2],"type":["dbl"],"align":["right"]}],"data":[{"1":"59","2":"192"}],"options":{"columns":{"min":{},"max":[10]},"rows":{"min":[10],"max":[10]},"pages":{}}}
   </script>
 </div>
 </div>
 </div>
-<p>Мы видим, что 95% данных лежит в переделе 192 минут, то есть все остальные значения, которые больше 192 минут, характерны только для 5% случаев. 5% данных имеют показателоь менее 58 минут.</p>
+<p>Мы видим, что 95% данных лежит в переделе 192 минут, то есть все остальные значения, которые больше 192 минут, характерны только для 5% случаев. 5% данных имеют показателоь менее 59 минут.</p>
 <p>Исходя из вышесказанного мы отсечем все данные, которые менее <code>Q1</code> и не больше <code>Q4</code> и построим график распредлеения.</p>
 <div class="cell" data-layout-align="center">
 <div class="cell-output-display">
 
 <div data-pagedtable="false">
   <script data-pagedtable-source="" type="application/json">
-{"columns":[{"label":["Среднее"],"name":[1],"type":["dbl"],"align":["right"]},{"label":["Медиана"],"name":[2],"type":["dbl"],"align":["right"]},{"label":["Стандартное_отклонение"],"name":[3],"type":["dbl"],"align":["right"]}],"data":[{"1":"109.7086","2":"104","3":"31.83416"}],"options":{"columns":{"min":{},"max":[10]},"rows":{"min":[10],"max":[10]},"pages":{}}}
+{"columns":[{"label":["Среднее"],"name":[1],"type":["dbl"],"align":["right"]},{"label":["Медиана"],"name":[2],"type":["dbl"],"align":["right"]},{"label":["Стандартное_отклонение"],"name":[3],"type":["dbl"],"align":["right"]}],"data":[{"1":"110.1848","2":"105","3":"31.69678"}],"options":{"columns":{"min":{},"max":[10]},"rows":{"min":[10],"max":[10]},"pages":{}}}
   </script>
 </div>
 </div>
